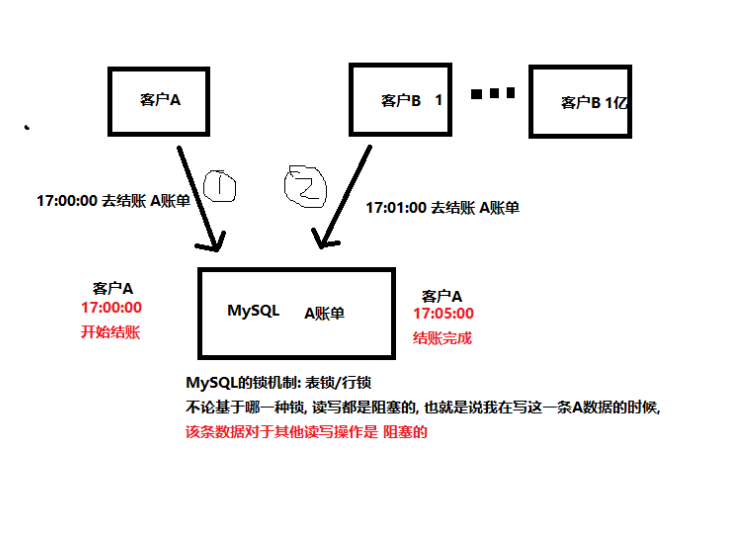
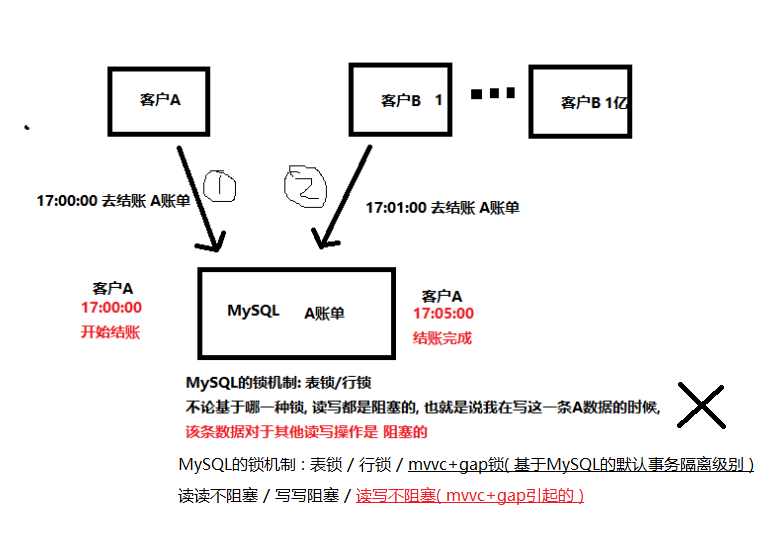
'更新'

diff --git a/springboot-miaosha-incr-demo/README.md b/springboot-miaosha-incr-demo/README.md
@@ -73,15 +73,16 @@
 >      - 读读不阻塞：当前用户在读数据，其他的用户也在读数据，不会加锁
 > - 读写阻塞：当前用户在读数据，其他的用户**不能修改当前用户读的数据**，会加锁！
 >      - 写写阻塞：当前用户在修改数据，其他的用户**不能修改当前用户正在修改的数据**，会加锁！
-> 
+>
 >  5. InnoDB实现了以下**两种**类型的行锁。
 >
 >     - 共享锁（S锁）：允许一个事务去读一行，阻止其他事务获得相同数据集的排他锁。
 >       - 也叫做**读锁**：读锁是**共享**的，多个客户可以**同时读取同一个**资源，但**不允许其他客户修改**。
 >     - 排他锁（X锁)：允许获得排他锁的事务更新数据，阻止其他事务取得相同数据集的共享读锁和排他写锁。
 >       - 也叫做**写锁**：写锁是排他的，**写锁会阻塞其他的写锁和读锁**。
+>  6. 数据库事务有不同的隔离级别，不同的隔离级别对锁的使用是不同的。MySQL默认使用的可重复读的隔离级别 , 可重复读会导致幻读 , 通过**mvvc和gap锁解决了幻读**( 参考: https://my.oschina.net/u/566591/blog/3162858?_from=gitee_rec )。**其中mvvc是读写不阻塞的**
 
-> **结论 : **MySQL对于`UPDATE、DELETE、INSERT`语句, **都会加锁,** **导致其他的SQL语句阻塞,** 在高并发的情况下, **虽然保证了数据安全** , 但是数据库会承受大量的IO操作, 大量的操作就会阻塞, 可能会导致宕机等, 所以需要缓冲这些服务, 可以使用MQ来异步操作
+> **结论 : **MySQL对于`UPDATE、DELETE、INSERT`语句, **都会加锁,** **导致其他的SQL语句阻塞( 也就是写写阻塞 ),** 在高并发的情况下, **虽然保证了数据安全** , 但是数据库会承受大量的IO操作, 大量的操作就会阻塞, 可能会导致宕机等, 所以需要缓冲这些服务, 可以使用MQ来异步操作
 
 ## Redis锁
 
